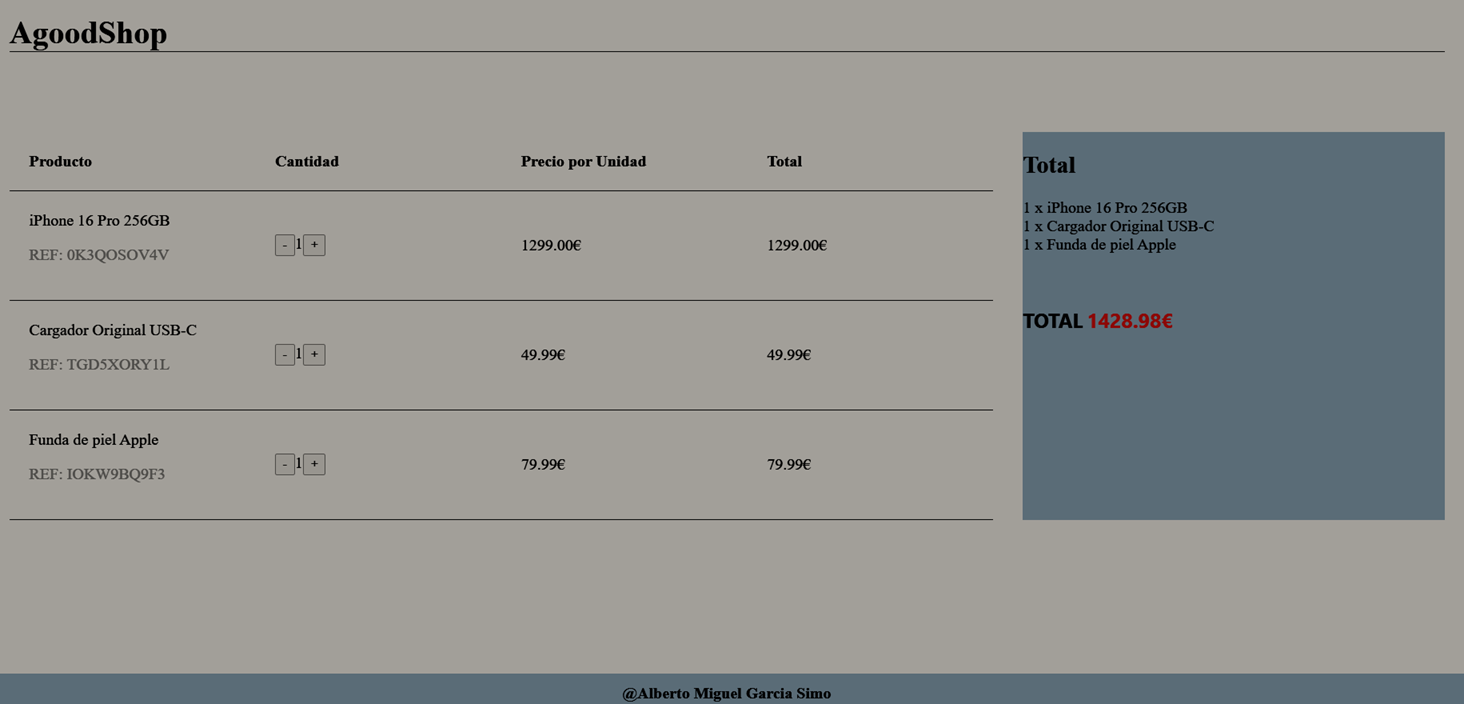
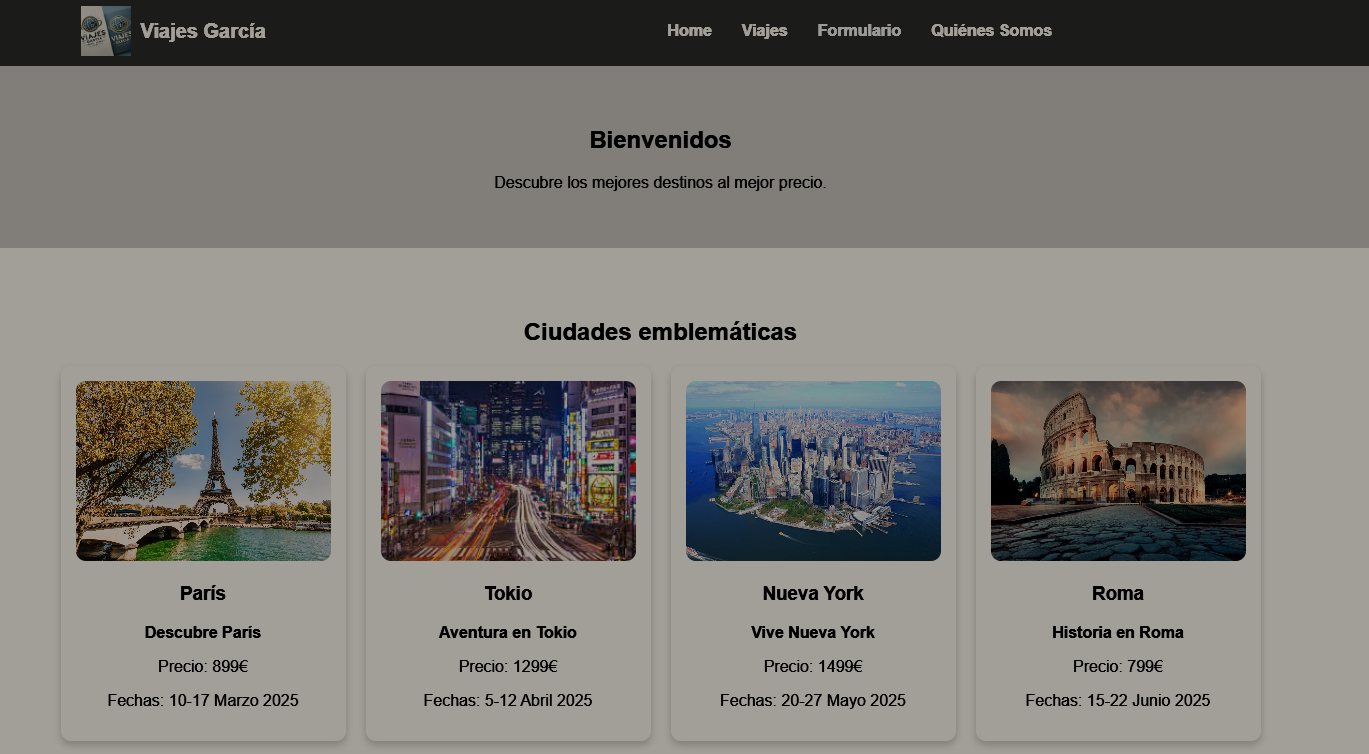
actualizado portfolio

diff --git a/index.html b/index.html
@@ -300,7 +300,7 @@
               <h4>TÉCNICO DE OBSERVABILIDAD</h4>
               <span class="casa">Mercadona S.A.</span>
               <span class="fecha">Nov 2024 - </span>
-              <p>Logging centralizado con el Stack de Elastic, OpenTelemetry,
+              <p>Logging centralizado con el Stack de Elastic, OpenTelemetry, Prometheus, Grafana,
                 Ansible, Uso de herramientas de ticketing (Jira)
               </p>
               <div class="conectord">
@@ -376,19 +376,25 @@
         <h2>PORTFOLIO</h2>
         <div class="galeria">
           <div class="proyecto">
-            <img src="img/p1.jpg" alt="" />
-            <div class="overlay">
-              <h3>Diseño Angular</h3>
-              <p>Calculadora básica</p>
-            </div>
+            <a href="https://listaproductosapi.netlify.app/" target="_blank">
+              <img src="img/p1.jpg" alt="" />
+              <div class="overlay">
+                <h3>Diseño Angular</h3>
+                <p>Lista Productos</p>
+              </div>
+            </a>
           </div>
+
           <div class="proyecto">
-            <img src="img/p2.jpg" alt="" />
-            <div class="overlay">
-              <h3>Diseño Javascript</h3>
-              <p>Carrito básico</p>
-            </div>
+            <a href="https://algarciasi.github.io/Tarea-3---Agencia-Viajes/viajes.html" target="_blank">
+              <img src="img/p2.jpg" alt="" />
+              <div class="overlay">
+                <h3>Diseño Web</h3>
+                <p>Agencia Viajes</p>
+              </div>
+            </a>
           </div>
+          
           <div class="proyecto">
             <img src="img/p3.jpg" alt="" />
             <div class="overlay">
@@ -396,27 +402,6 @@
               <p>Cajero Virtual</p>
             </div>
           </div>
-          <!--<div class="proyecto">
-            <img src="img/p4.jpg" alt="" />
-            <div class="overlay">
-              <h3>Diseño Creativo</h3>
-              <p>Fotografía</p>
-            </div>
-          </div>
-          <div class="proyecto">
-            <img src="img/p5.jpg" alt="" />
-            <div class="overlay">
-              <h3>Diseño Creativo</h3>
-              <p>Fotografía</p>
-            </div>
-          </div>
-          <div class="proyecto">
-            <img src="img/p6.jpg" alt="" />
-            <div class="overlay">
-              <h3>Diseño Creativo</h3>
-              <p>Fotografía</p>
-            </div>
-          </div>-->
         </div>
       </div>
     </section>
